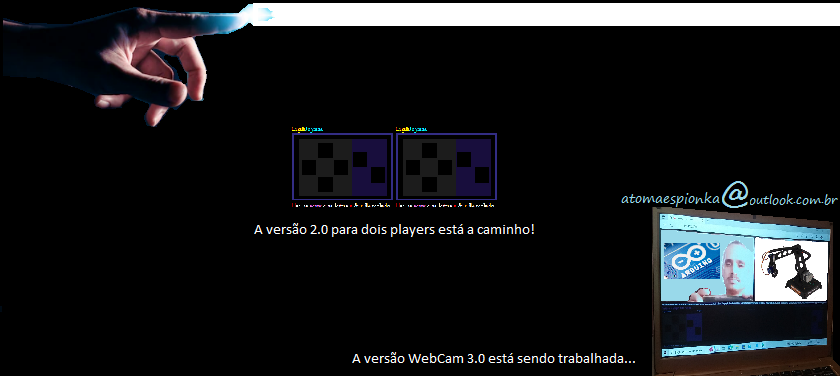
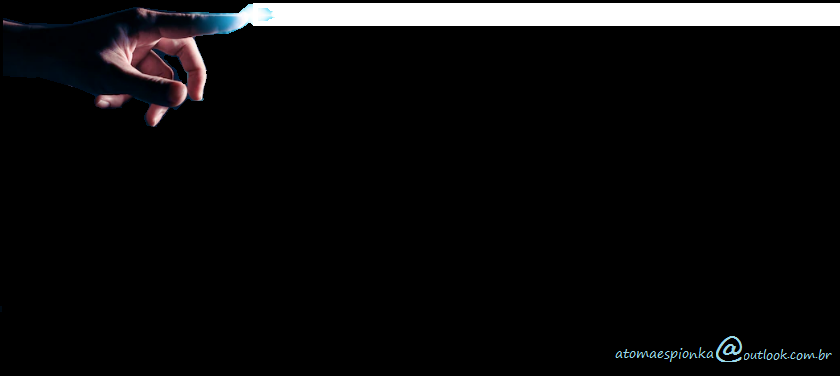
commit pg secundaria

Changed region(s): [[0.4024, 0.4681, 1.0, 1.0], [0.3405, 0.3218, 0.5881, 0.5559], [0.3095, 0.5851, 0.65, 0.6436]]

diff --git a/index.html b/index.html
@@ -33,15 +33,20 @@ luz no monitor. Fica a disposição do usuário os tipos de sensores usados para
 <div>
 
 
-  <img src="img1.PNG" width="100%">
+  <img src="imgp1.PNG" width="100%">
   
 </div>
 
-<p align=right sinze=0.9em margin= 0 margin= auto>
-  <a href="https://closedexpertidentifier.rafaelsilva666.repl.co/"><font color="#f5f6fa">Fale com o administrador, receba sua senha e acesse este link da versão 1.0.</font></a>
-
+<p>
+  <a href="https://salaalfa.rafaelsilva666.repl.co/"><font color="#f5f6fa"> Acesse o link e digite a senha da sala alfa</font></a>
 </p>
 
+
+<div>
+
+  <img src="img1.PNG" width="100%">
+  
+</div>
 
 <div>
 
@@ -49,14 +54,8 @@ luz no monitor. Fica a disposição do usuário os tipos de sensores usados para
   
 </div>
 
-
-<p align=right sinze=0.9em margin= 0 margin= auto>
-  <a href="https://github.com/Rafael-Silva-Natal/LigthJoystik_version1.0_from_Htmlpages" color= "#32226c">Projéto com repositório público no GitHub...</a></p>
-  
-      <p align=right ><font size= 0.7em color= "#32226c"; margin= 0 margin= auto width= 100% >Protótipo de página feita para o GitHub.</br><font color= "#f5f6fa">Working...</font></font></p>
-   
       <marquee  width="100%" behavior="scrool" direction="Left" bgcolor="#180e3d" font-size= 0.7em><font color="#f5f6fa">
-        LightPage_LightJoystik_versão1.0_Arduino_project_Rafael Silva_Natal_RN_Brasil -Doe qualquer valor e ajude o desenvolvedor desse projeto... PIX : atomaespionka@gmail.com
+        LightPage_LightJoystik_versão1.0_Arduino_project
         </font></marquee>
       
   </body>
